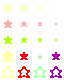
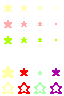
Gems to HUD

diff --git a/output/src/game.js b/output/src/game.js
@@ -5,6 +5,7 @@ import { Stage } from "./stage.js";
 import { State } from "./util.js";
 var HUD_APPEAR_TIME = 15;
 var HUD_TIME = 120;
+var HUD_ELEMENT_COUNT = 3;
 var GameScene = /** @class */ (function () {
     function GameScene(param, ev) {
         this.state = new GameState();
@@ -15,9 +16,9 @@ var GameScene = /** @class */ (function () {
         this.objects.setCamera(this.cam);
         this.objects.initialCameraCheck(this.cam);
         this.cloudPos = (new Array(2)).fill(0);
-        this.hudAppearTimer = (new Array(2)).fill(0);
-        this.hudAppearMode = (new Array(2)).fill(0);
-        this.hudTimer = (new Array(2)).fill(0);
+        this.hudAppearTimer = (new Array(HUD_ELEMENT_COUNT)).fill(0);
+        this.hudAppearMode = (new Array(HUD_ELEMENT_COUNT)).fill(0);
+        this.hudTimer = (new Array(HUD_ELEMENT_COUNT)).fill(0);
         this.paused = false;
         this.pauseWaveTimer = 0;
     }
@@ -60,6 +61,7 @@ var GameScene = /** @class */ (function () {
     GameScene.prototype.updateHUD = function (ev) {
         this.updateHudTimer(0, this.state.hasLivesChanged(), ev);
         this.updateHudTimer(1, this.state.hasStarsChanged(), ev);
+        this.updateHudTimer(2, this.state.hasGemsChanged(), ev);
     };
     GameScene.prototype.refresh = function (ev) {
         var CLOUD_SPEED = [0.125, 0.25];
@@ -130,6 +132,13 @@ var GameScene = /** @class */ (function () {
             "/" + String(this.stage.starCount);
         if (y > -16)
             c.drawText(fontBigger, str, c.width / 2, y, -6, 0, true);
+        // Gems
+        y = this.computeHudElementPosition(2);
+        str = String.fromCharCode(5) +
+            String.fromCharCode(2) +
+            String(this.state.getGemCount());
+        if (y > -16)
+            c.drawText(fontBigger, str, c.width - (str.length + 1) * 10, y, -6, 0, false);
     };
     GameScene.prototype.drawPause = function (c) {
         var TEXT_AMPLITUDE = 4;

diff --git a/src/game.ts b/src/game.ts
@@ -10,6 +10,7 @@ import { State } from "./util.js";
 
 const HUD_APPEAR_TIME = 15;
 const HUD_TIME = 120;
+const HUD_ELEMENT_COUNT = 3;
 
 
 export class GameScene implements Scene {
@@ -44,9 +45,9 @@ export class GameScene implements Scene {
 
         this.cloudPos = (new Array<number>(2)).fill(0);
 
-        this.hudAppearTimer = (new Array<number> (2)).fill(0);
-        this.hudAppearMode = (new Array<number> (2)).fill(0);
-        this.hudTimer = (new Array<number> (2)).fill(0);
+        this.hudAppearTimer = (new Array<number> (HUD_ELEMENT_COUNT)).fill(0);
+        this.hudAppearMode = (new Array<number> (HUD_ELEMENT_COUNT)).fill(0);
+        this.hudTimer = (new Array<number> (HUD_ELEMENT_COUNT)).fill(0);
         this.paused = false;
         this.pauseWaveTimer = 0;
     }
@@ -111,6 +112,7 @@ export class GameScene implements Scene {
 
         this.updateHudTimer(0, this.state.hasLivesChanged(), ev);
         this.updateHudTimer(1, this.state.hasStarsChanged(), ev);
+        this.updateHudTimer(2, this.state.hasGemsChanged(), ev);
     }
 
 
@@ -218,6 +220,15 @@ export class GameScene implements Scene {
             "/" + String(this.stage.starCount);
         if (y > -16)
             c.drawText(fontBigger, str, c.width/2, y, -6, 0, true);
+
+        // Gems
+        y = this.computeHudElementPosition(2);
+        str =  String.fromCharCode(5) + 
+            String.fromCharCode(2) + 
+            String(this.state.getGemCount());
+        if (y > -16)
+            c.drawText(fontBigger, str, c.width - (str.length+1)*10, 
+                y, -6, 0, false);
 
     }
 

diff --git a/src/gamestate.ts b/src/gamestate.ts
@@ -5,18 +5,22 @@ export class GameState {
 
     private stars : number;
     private lives : number;
+    private gems : number;
 
     private starsChanged : boolean;
     private livesChanged : boolean;
+    private gemsChanged : boolean;
 
 
     constructor(startingLives = 5) {
 
         this.stars = 0;
         this.lives = startingLives;
+        this.gems = 0;
 
         this.starsChanged = false;
         this.livesChanged = false;
+        this.gemsChanged = false;
     }
 
 
@@ -24,13 +28,13 @@ export class GameState {
 
         this.starsChanged = false;
         this.livesChanged = false;
+        this.gemsChanged = false;
     }
 
 
     public addStar() {
 
         ++ this.stars;
-
         this.starsChanged = true;
     }
 
@@ -38,15 +42,22 @@ export class GameState {
     public addLives(count) {
 
         this.lives = Math.max(0, this.lives + count);
-
         this.livesChanged = true;
+    }
+
+
+    public addGem() {
+
+        ++ this.gems;
+        this.gemsChanged = true;
     }
 
 
     public hasStarsChanged = () : boolean => this.starsChanged;
     public hasLivesChanged = () : boolean => this.livesChanged;
-
+    public hasGemsChanged = () : boolean => this.gemsChanged;
 
     public getStarCount = () : number => this.stars;
     public getLifeCount = () : number => this.lives;
+    public getGemCount = () : number => this.gems;
 }

diff --git a/output/src/gamestate.js b/output/src/gamestate.js
@@ -4,16 +4,21 @@ var GameState = /** @class */ (function () {
         if (startingLives === void 0) { startingLives = 5; }
         this.hasStarsChanged = function () { return _this.starsChanged; };
         this.hasLivesChanged = function () { return _this.livesChanged; };
+        this.hasGemsChanged = function () { return _this.gemsChanged; };
         this.getStarCount = function () { return _this.stars; };
         this.getLifeCount = function () { return _this.lives; };
+        this.getGemCount = function () { return _this.gems; };
         this.stars = 0;
         this.lives = startingLives;
+        this.gems = 0;
         this.starsChanged = false;
         this.livesChanged = false;
+        this.gemsChanged = false;
     }
     GameState.prototype.update = function () {
         this.starsChanged = false;
         this.livesChanged = false;
+        this.gemsChanged = false;
     };
     GameState.prototype.addStar = function () {
         ++this.stars;
@@ -22,6 +27,10 @@ var GameState = /** @class */ (function () {
     GameState.prototype.addLives = function (count) {
         this.lives = Math.max(0, this.lives + count);
         this.livesChanged = true;
+    };
+    GameState.prototype.addGem = function () {
+        ++this.gems;
+        this.gemsChanged = true;
     };
     return GameState;
 }());

diff --git a/output/src/enemy.js b/output/src/enemy.js
@@ -109,7 +109,7 @@ var Enemy = /** @class */ (function (_super) {
     Enemy.prototype.playerEvent = function (pl, ev) { };
     Enemy.prototype.spawnParticles = function (count, speedAmount, angleOffset, id, time) {
         if (angleOffset === void 0) { angleOffset = 0; }
-        if (id === void 0) { id = 3; }
+        if (id === void 0) { id = 4; }
         if (time === void 0) { time = ENEMY_DEATH_TIME - 1; }
         var ANIM_SPEED = 4.0;
         var angle;
@@ -137,7 +137,7 @@ var Enemy = /** @class */ (function (_super) {
             pl.doesCollideSpinning(this)) {
             this.dying = true;
             this.deathTime = ENEMY_DEATH_TIME;
-            this.spawnParticles(4, 3.0, Math.PI / 4, 4, ENEMY_DEATH_TIME / 2);
+            this.spawnParticles(4, 3.0, Math.PI / 4, 5, ENEMY_DEATH_TIME / 2);
             this.knocked = true;
             this.target.x = SPIN_KNOCK_SPEED_X *
                 Math.sign(this.pos.x - pl.getPos().x);

diff --git a/src/enemy.ts b/src/enemy.ts
@@ -170,7 +170,7 @@ export abstract class Enemy extends CollisionObject {
 
 
     private spawnParticles(count : number, speedAmount : number, 
-        angleOffset = 0, id = 3, time = ENEMY_DEATH_TIME-1) {
+        angleOffset = 0, id = 4, time = ENEMY_DEATH_TIME-1) {
 
         const ANIM_SPEED = 4.0;
 
@@ -214,7 +214,7 @@ export abstract class Enemy extends CollisionObject {
 
             this.dying = true;
             this.deathTime = ENEMY_DEATH_TIME;
-            this.spawnParticles(4, 3.0, Math.PI/4, 4, ENEMY_DEATH_TIME/2);
+            this.spawnParticles(4, 3.0, Math.PI/4, 5, ENEMY_DEATH_TIME/2);
             this.knocked = true;
 
             this.target.x = SPIN_KNOCK_SPEED_X * 

diff --git a/output/src/player.js b/output/src/player.js
@@ -407,6 +407,9 @@ var Player = /** @class */ (function (_super) {
                 if (!this.fly.doesExist() || this.fly.isDying())
                     this.fly.spawn(x, y);
                 break;
+            case 3:
+                this.state.addGem();
+                break;
             default:
                 break;
         }

diff --git a/src/player.ts b/src/player.ts
@@ -609,6 +609,10 @@ export class Player extends CollisionObject {
                 this.fly.spawn(x, y);
             break;
 
+        case 3:
+            this.state.addGem();
+            break;
+
         default:
             break;
         }
